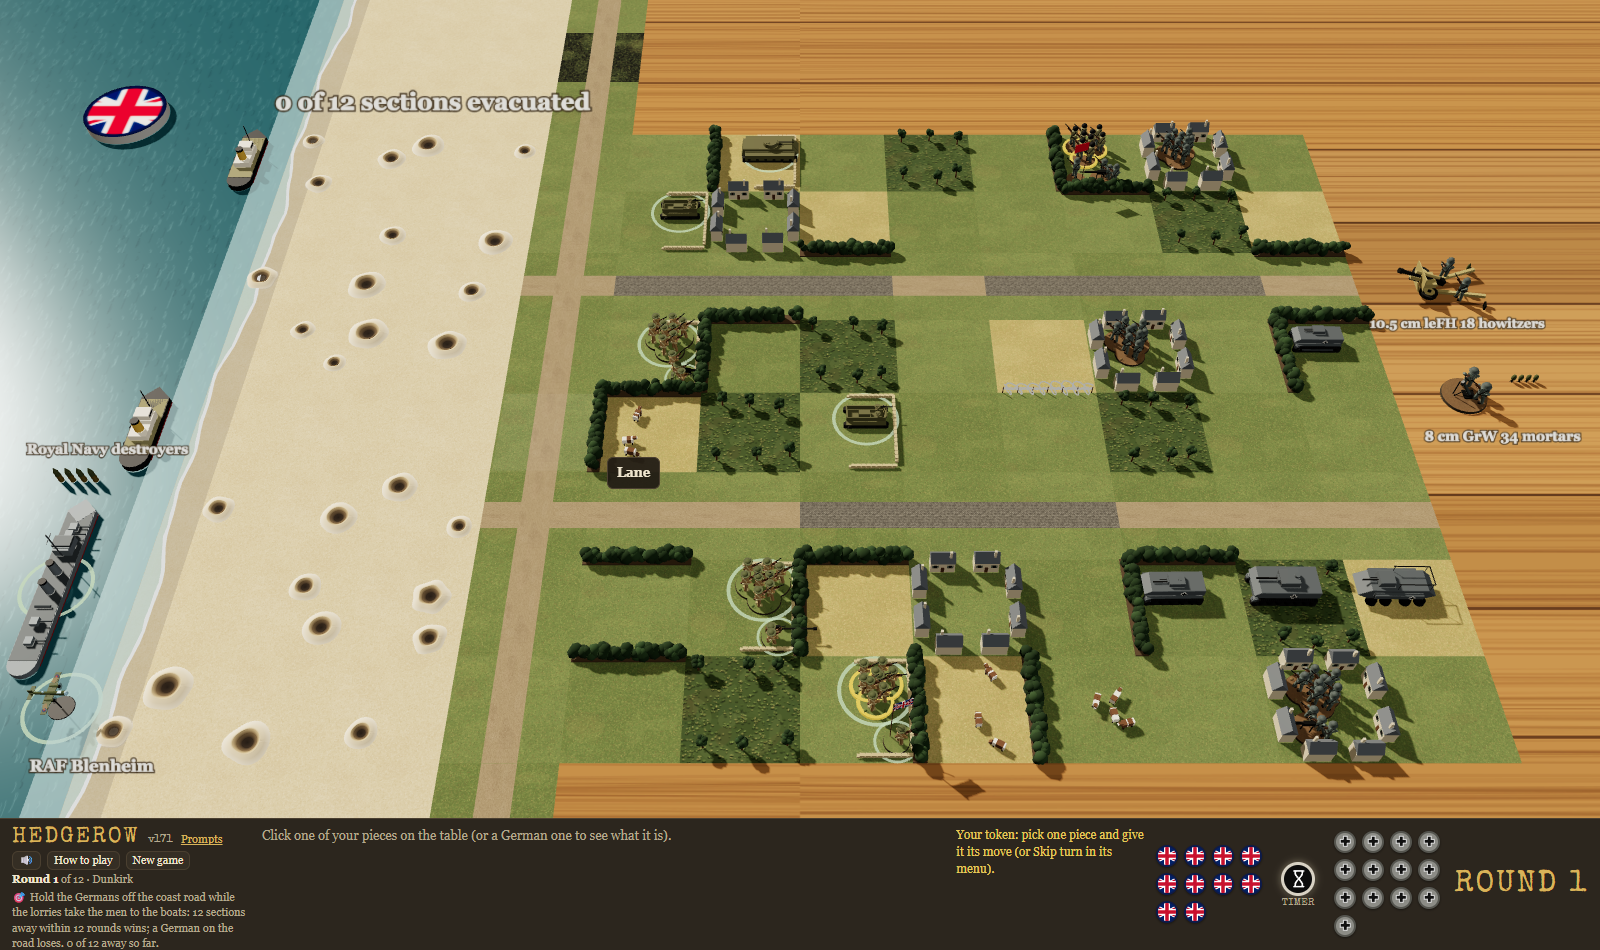
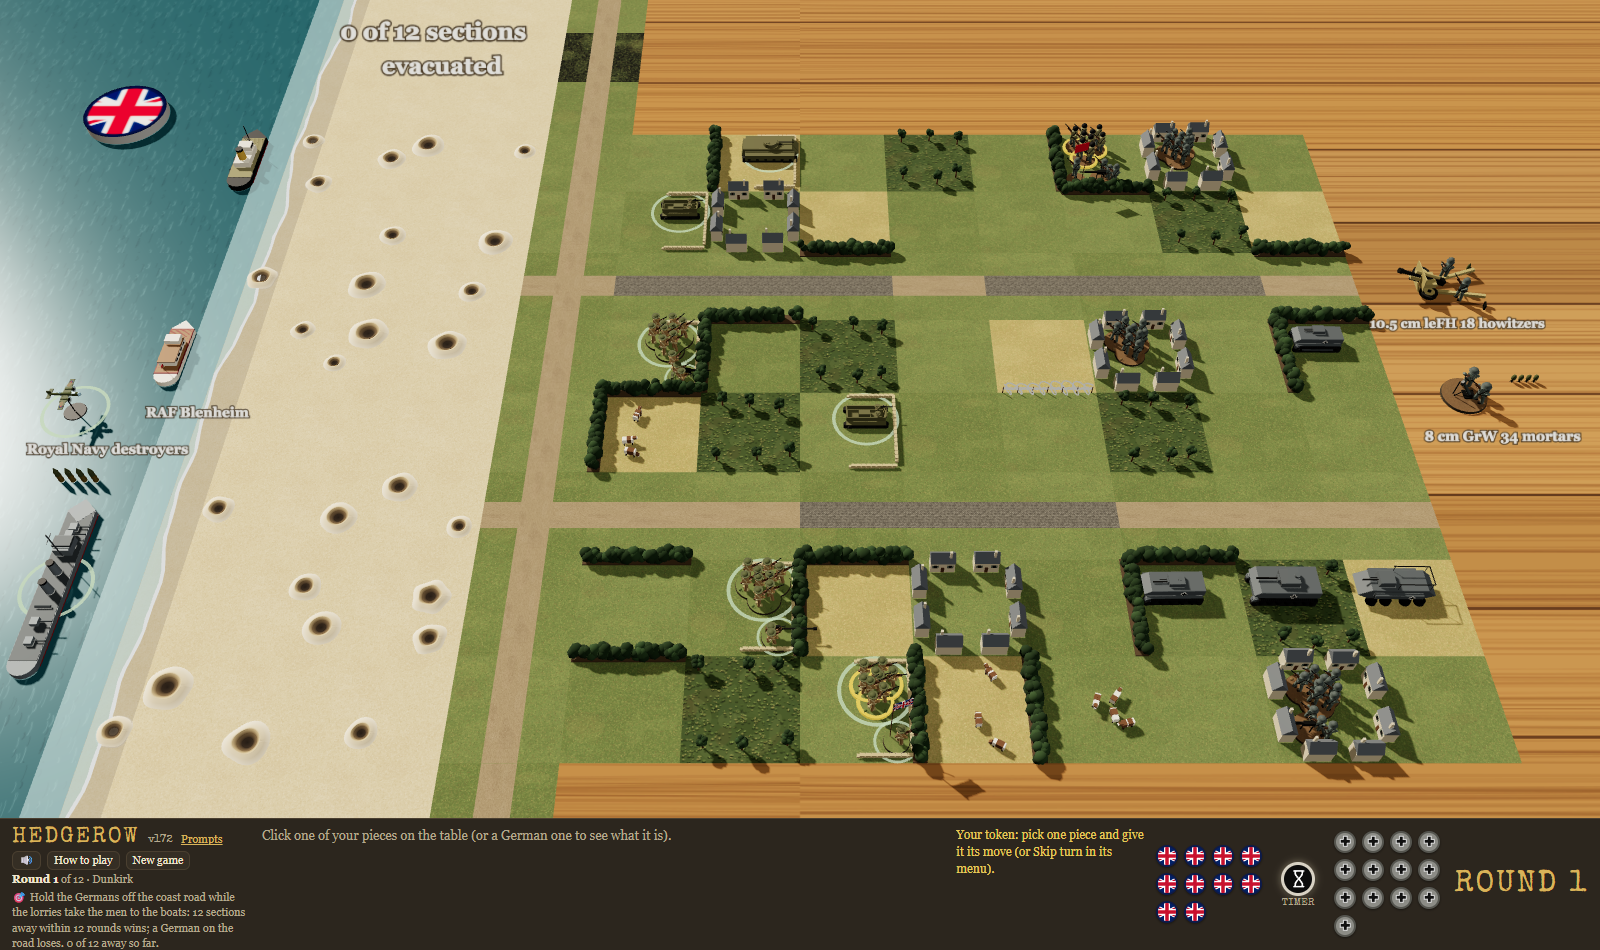
Hedgerow v173: Dunkirk's score on two lines higher up; the bomber above the destroyer; boats off the top half

diff --git a/index.html b/index.html
@@ -145,7 +145,7 @@
 <aside id="panel">
   <div class="brand">
   <div class="top">
-    <h1>HEDGEROW <span id="ver" style="font-size:11px;color:var(--muted);letter-spacing:0">v172</span> <a id="prompts-link" href="prompts.html" target="_blank" rel="noopener" title="How the game was made, prompt by prompt">Prompts</a></h1>
+    <h1>HEDGEROW <span id="ver" style="font-size:11px;color:var(--muted);letter-spacing:0">v173</span> <a id="prompts-link" href="prompts.html" target="_blank" rel="noopener" title="How the game was made, prompt by prompt">Prompts</a></h1>
     <div class="links"><button id="sound-btn" title="Sound on or off">🔊</button><button id="help-btn">How to play</button><button id="new-btn">New game</button></div>
   </div>
   <div id="clock"></div>
@@ -193,7 +193,7 @@
     <p>Tuesday 11 July 1944, Normandy. Your American rifle company must fight through the bocage, field by field, and take a village three fields in from the German end of the board (Saint-Jean or La Haye: it changes each game), then hold it for the whole of the next round, or destroy every German on the field. Taken at the end of a round, it must stay held after every move of the next: a rifle platoon or the captain of yours in it and no Germans. Lose it at any moment and it must be taken and held all over again. The game is played in rounds; there is no limit for now. The moment one side has no pieces left, the game is over (the round isn't finished); if one mission or bomb takes the last of both sides, it is a draw. You lose at the end of a round if you have no rifle platoon and no captain left, and nothing left that can hurt the German tanks. A German garrison holds the village; more Germans march up from the east.</p>
     <ul>
       <li>🪖 <b>Pieces</b>: your company: three rifle platoons (three sections of three men each, moving together), the captain, machine-gun and bazooka teams, a sniper, and two tanks: a Sherman 75mm and a Sherman 76mm, with the longer gun, better against tanks. 1st Platoon is elite, and so is the Germans' 1. Fallschirmjäger-Zug: an elite piece has a gold band round the edge of each of its bases, its men look the part (and a ★ after its name): 1st Platoon are Rangers in brown, with the orange diamond on their helmets; the Fallschirmjäger wear the paratrooper's camouflage smock and black helmet. The other Germans are in field grey. Elite troops need one less to hit, in shooting and hand to hand. Your bases are green, the Germans' brown. The Germans: Fallschirmjäger platoons, MG 42 and Panzerschreck teams, a PaK 40 gun with its crew of three (it turns to face whatever it fires at), a Panzer IV and a Panther in panzer grey (the Panther's armour needs one more to hit, by shot or shell; every tank's armour shows in its panel and on the red label), and their captain with a red flag, who rallies their shaken pieces. Both captains can be shot and shelled like anyone else (a small target): one wound and he's gone.</li>
-      <li>🗺 <b>The campaign</b>: the same start also asks which battle. They run in order from the Normandy beaches through the bocage and the farms to Paris, each with its date; play any of them, in any order. When a battle ends and you have won it, <b>Next battle</b> starts the next one in the campaign with the same commanders on each side (after Paris, back to the beach); lost or drawn, <b>Try again</b> plays the same battle again. With two humans or two robots, it goes on when the Americans win. Take Paris and the city celebrates. Each has its own ground, and most change the pieces, the guns or where the sides start: River crossing (bridges the only way over), Crossroads town, Open farmland (few hedges, barns and a duck pond), Paris (a new maze of cobbled streets each game), Train station (tracks everywhere, with engines, carriages, goods wagons, signal boxes, signals, water towers and coal heaps in new places each game; the tracks themselves have no effect) and Deep bocage (hedges nearly everywhere). A café, a barn, or anything on the rails takes two or three areas, along one side of its field or in the middle, and blocks the view as a tank does; so do the station's signal boxes, water towers and coal heaps, one area each; a signal takes an area too, but can be seen past (with one in the middle only smaller pieces can stop there; platoons and tanks go past); a fountain or a pond can't be stood on, but can be seen over. Bombers differ too: on some maps only one side has one, on one map neither. The choice says what each one changes. Two <b>bonus battles</b> sit at the top right of the choice, outside the campaign. <b>Dunkirk</b>, 31 May 1940: you are the British (or the Germans against them). Your men don't go to the boats: they hold the sandbagged strongpoints along the front (two more to hit the men in one, one more against shells). From round 2 a lorry a round comes down the coast road from the top, with 1 or 2 sections of men, and drives itself (up to 4 fields a round, no orders or token) to a little ship lying off the beach; the men run out of the back into the boat, and the boats sail at the end of the round. Two or three boats (tugs and cabin cruisers) come in each round, off the top five fields of the beach; the destroyer and the RAF's bomber lie at the bottom. 12 sections away within 12 rounds wins (a lorry shot up on the way brings fewer); a German on the coast road or the beach at the end of a round loses, and so does running out of lorries or rounds. The Germans can shoot the lorries: each hit loses a section. The Royal Navy's destroyer fires for the British in place of artillery, with 4 rounds; the British have no mortars, and one run of an RAF Blenheim. The boats come in bow first, pull up alongside the beach, and leave bow first. The count of sections away is written large on the beach above the board. On the Normandy beach the American guns are the battleship USS Texas, out at sea, with 3 rounds, and no mortars. On both, the beach runs on past the top and bottom of the board. <b>Stalingrad</b> is still to be decided (TBC).</li>
+      <li>🗺 <b>The campaign</b>: the same start also asks which battle. They run in order from the Normandy beaches through the bocage and the farms to Paris, each with its date; play any of them, in any order. When a battle ends and you have won it, <b>Next battle</b> starts the next one in the campaign with the same commanders on each side (after Paris, back to the beach); lost or drawn, <b>Try again</b> plays the same battle again. With two humans or two robots, it goes on when the Americans win. Take Paris and the city celebrates. Each has its own ground, and most change the pieces, the guns or where the sides start: River crossing (bridges the only way over), Crossroads town, Open farmland (few hedges, barns and a duck pond), Paris (a new maze of cobbled streets each game), Train station (tracks everywhere, with engines, carriages, goods wagons, signal boxes, signals, water towers and coal heaps in new places each game; the tracks themselves have no effect) and Deep bocage (hedges nearly everywhere). A café, a barn, or anything on the rails takes two or three areas, along one side of its field or in the middle, and blocks the view as a tank does; so do the station's signal boxes, water towers and coal heaps, one area each; a signal takes an area too, but can be seen past (with one in the middle only smaller pieces can stop there; platoons and tanks go past); a fountain or a pond can't be stood on, but can be seen over. Bombers differ too: on some maps only one side has one, on one map neither. The choice says what each one changes. Two <b>bonus battles</b> sit at the top right of the choice, outside the campaign. <b>Dunkirk</b>, 31 May 1940: you are the British (or the Germans against them). Your men don't go to the boats: they hold the sandbagged strongpoints along the front (two more to hit the men in one, one more against shells). From round 2 a lorry a round comes down the coast road from the top, with 1 or 2 sections of men, and drives itself (up to 4 fields a round, no orders or token) to a little ship lying off the beach; the men run out of the back into the boat, and the boats sail at the end of the round. Two or three boats (tugs and cabin cruisers) come in each round, off the top four fields of the beach; the destroyer lies at the bottom with the RAF's bomber above it. 12 sections away within 12 rounds wins (a lorry shot up on the way brings fewer); a German on the coast road or the beach at the end of a round loses, and so does running out of lorries or rounds. The Germans can shoot the lorries: each hit loses a section. The Royal Navy's destroyer fires for the British in place of artillery, with 4 rounds; the British have no mortars, and one run of an RAF Blenheim. The boats come in bow first, pull up alongside the beach, and leave bow first. The count of sections away is written large on the beach above the board. On the Normandy beach the American guns are the battleship USS Texas, out at sea, with 3 rounds, and no mortars. On both, the beach runs on past the top and bottom of the board. <b>Stalingrad</b> is still to be decided (TBC).</li>
       <li>🏖 <b>Beach landing</b>: the Americans start in landing craft in the sea and can only go forward. There is no goal to take: they win only by destroying every German, bunkers and all. <b>Bunkers</b> are a U of concrete with an MG team or a PaK 40 inside. They never move and fire only out of the slit in their thick front, to the west, across a 90° arc: 45° either side of straight ahead, measured from where the bunker stands to where the target stands in its field. <b>From in front they need 3 more to hit</b>, and shells and bombs too; <b>from either thin side, 1 more</b>; <b>from the open back (the 90° straight behind it), nothing extra</b>. A bunker never has cover from the sea wall, hedges, houses or trees, and the label on a shot at one says which face. Rifles, machine guns and mortars only shake a bunker; anti-tank weapons, artillery and bombs can knock it out, and a rifle platoon can storm it hand to hand from the side or back, never from the front. A dead bunker stays as a burnt-out shell, blocking the view. <b>Tank traps</b> stop tanks and give no cover. <b>Burnt-out landing craft</b> on the sand block the view; a piece right beside one (in the next area, in its field or the next) has +1 cover, as by a hedge, shown by a green bar along the wreck when you move there (not against shells or bombs). The sea wall is climbed like a hedge bank, or driven through.</li>
       <li>🔄 <b>Human or robot</b>: the game starts by asking who commands each side, and <b>New game</b> asks again. Two humans share the screen and take turns token by token: a piece under fire is asked Stand fast or Take cover by the other player. Two robots play it out while you watch, a draw after 30 rounds. <b>Playing the Germans</b>: As the Germans you win only by destroying every American piece on the table; their mortars, artillery and bomber off the table don't count. You lose if a rifle platoon or the captain of theirs takes the village and holds it for the whole of the next round, with no Germans left in it, or if every German is destroyed. The computer plays the Americans and attacks. Everything else in these rules works the same, the other way round: your pieces fight with German weapons and your mortars drop on one piece, not a whole field.</li>
       <li>📋 <b>The bag</b>: each round a token goes in a blind bag for every piece on the table: green with a gold star for yours, grey with a black cross for the Germans', and one black timer token (a white sand-glass): when the timer is drawn the round ends there and then, whoever has still to move (it is never the first token out). Tokens are drawn one at a time; on yours, pick one piece and give it its move (or Skip turn in its menu); on theirs, a German piece moves. A piece destroyed, or one that loses its move, takes a token out. When the bag is empty the next round starts. The tokens left are shown in the bar at the bottom (the timer between the two sides'); the one drawn flies onto the table above that side's artillery and stays there until its move is over. Your mortars, artillery and bomber each have a token too, while they have rounds or a run left (with none left, they come out of the bag): on one of your tokens, firing them or flying the bomber uses it. Any piece or gun can <b>Skip turn</b> (in its menu): it gives up its move this round and the token is used.</li>
@@ -229,16 +229,16 @@
 </div>
 
 <script src="https://cdnjs.cloudflare.com/ajax/libs/three.js/r128/three.min.js"></script>
-<script src="js/data.js?v=172"></script>
-<script src="js/sim.js?v=172"></script>
-<script src="js/sound.js?v=172"></script>
-<script src="js/models.js?v=172"></script>
-<script src="js/fire.js?v=172"></script>
-<script src="js/chute.js?v=172"></script>
-<script src="js/labels.js?v=172"></script>
-<script src="js/scenery.js?v=172"></script>
-<script src="js/board3d.js?v=172"></script>
-<script src="js/ui.js?v=172"></script>
-<script src="js/main.js?v=172"></script>
+<script src="js/data.js?v=173"></script>
+<script src="js/sim.js?v=173"></script>
+<script src="js/sound.js?v=173"></script>
+<script src="js/models.js?v=173"></script>
+<script src="js/fire.js?v=173"></script>
+<script src="js/chute.js?v=173"></script>
+<script src="js/labels.js?v=173"></script>
+<script src="js/scenery.js?v=173"></script>
+<script src="js/board3d.js?v=173"></script>
+<script src="js/ui.js?v=173"></script>
+<script src="js/main.js?v=173"></script>
 </body>
 </html>

diff --git a/js/board3d.js b/js/board3d.js
@@ -106,13 +106,14 @@ const Board = (() => {
   // these maps, and no headland, Steve 2026-11-12). The ship's name sits on the water off its bow, not on the ship, so it can
   // be read, and its shells stand in one line between the name and the bow, so the shots left can be counted (Steve)
   // nameX, nameZ: where its name goes; pileRow: the rounds in a single line, not rows of three.
-  // The warship and the bomber at the bottom of the sea, so the little ships have the top of the beach (Steve, 2026-11-12;
-  // Dunkirk keeps its boats off the rows behind them, noBoats in data.js)
+  // The warship at the bottom of the sea and the bomber above it, so the little ships have the top half of the beach
+  // (Steve, 2026-11-12; Dunkirk keeps its boats off the rows behind them, noBoats in data.js)
   const DUNKIRK_GUNS = {
     us: Object.assign({}, USUAL_GUNS.us, {
       // (in towards the shore: the bottom of the screen shows less of the sea)
       artillery: { x: -0.75, z: 6.3, pileX: -1.1, pileZ: 5.1, pileRow: true, nameX: -0.75, nameZ: 4.76 },
-      bomber: { x: -0.3, z: 7.5, nameX: 0.15, nameZ: 8.05 },
+      // (the bomber above the warship's name, its own name beside it towards the shore, Steve)
+      bomber: { x: -1.25, z: 4.25, nameX: 0.0, nameZ: 4.3 },
     }),
     de: USUAL_GUNS.de,
   };
@@ -332,22 +333,29 @@ const Board = (() => {
     return p < 1;
   }
 
-  // Dunkirk's score in big letters on the beach just above the board (Steve: the panel's was too small)
-  const EVAC_SIGN = { x: 1.55, z: -0.5, scale: 1.9, colour: '#f4ead0' };
-  let evacSign = null;               // { sprite, text }
+  // Dunkirk's score in big letters on the beach above the board (Steve: the panel's was too small), on two lines, half
+  // as far from the top of the screen as it was (Steve). gap: how far the second line is below the first
+  const EVAC_SIGN = { x: 1.55, z: -1.2, scale: 1.9, gap: 0.5, colour: '#f4ead0' };
+  let evacSign = null;               // { sign, text }
   function updateEvacSign(st) {
     if (!st.map.evacuate || !st.evac) return;
-    const text = `${st.evac.saved} of ${st.map.evacuate.need} sections evacuated`;
+    const lines = [`${st.evac.saved} of ${st.map.evacuate.need} sections`, 'evacuated'];
+    const text = lines.join(' ');
     // (the same words, and still on this table: nothing to do)
-    if (evacSign && evacSign.text === text && evacSign.sprite.parent === built) return;
-    if (evacSign && evacSign.sprite.parent) evacSign.sprite.parent.remove(evacSign.sprite);
-    const sprite = word(text, EVAC_SIGN.colour, true);
-    sprite.scale.multiplyScalar(EVAC_SIGN.scale);
-    sprite.position.set(EVAC_SIGN.x, 0.08, EVAC_SIGN.z);
-    // (drawn after the surf, so the water's edge never shows through the words)
-    sprite.renderOrder = 3;
-    built.add(sprite);
-    evacSign = { sprite, text };
+    if (evacSign && evacSign.text === text && evacSign.sign.parent === built) return;
+    if (evacSign && evacSign.sign.parent) evacSign.sign.parent.remove(evacSign.sign);
+    // One sprite a line, the second below the first
+    const sign = new T.Group();
+    lines.forEach((line, i) => {
+      const sprite = word(line, EVAC_SIGN.colour, true);
+      sprite.scale.multiplyScalar(EVAC_SIGN.scale);
+      sprite.position.set(EVAC_SIGN.x, 0.08 + (lines.length - 1 - i) * EVAC_SIGN.gap, EVAC_SIGN.z);
+      // (drawn after the surf, so the water's edge never shows through the words)
+      sprite.renderOrder = 3;
+      sign.add(sprite);
+    });
+    built.add(sign);
+    evacSign = { sign, text };
   }
 
   // Show as many rounds beside each gun as it has shots left

diff --git a/tools/test.js b/tools/test.js
@@ -4321,17 +4321,17 @@ check('one more American artillery round in Hedge country, Deep bocage, the Trai
   Sim.newGame(1);
 });
 
-check('no American or British mortars on either beach (Steve), and Dunkirk boats only off the top five rows, clear of the destroyer and the bomber', () => {
+check('no American or British mortars on either beach (Steve), and Dunkirk boats only off the top four rows, clear of the destroyer and the bomber', () => {
   for (const id of ['beach', 'dunkirk']) {
     const g = Sim.newGame(1, 'us', id);
     assert(g.ammo.us.mortars === 0, `${id}: ${g.ammo.us.mortars} mortar rounds`);
     // (the Germans keep theirs)
     assert(g.ammo.de.mortars > 0, `${id}: the Germans lost their mortars`);
   }
-  assert(MAPS.find(m => m.id === 'dunkirk').evacuate.noBoats.join() === '5,6,7', 'Dunkirk keeps the wrong rows clear of boats');
+  assert(MAPS.find(m => m.id === 'dunkirk').evacuate.noBoats.join() === '4,5,6,7', 'Dunkirk keeps the wrong rows clear of boats');
   for (let seed = 1; seed <= 30; seed++) {
     const g = Sim.newGame(seed, 'us', 'dunkirk');
-    assert(g.evac.boats.every(b => b.y <= 4), `seed ${seed}: a boat behind the destroyer`);
+    assert(g.evac.boats.every(b => b.y <= 3), `seed ${seed}: a boat behind the destroyer or the bomber`);
   }
   Sim.newGame(1);
 });
@@ -4359,7 +4359,7 @@ check('less than one die is always one die (Steve: everyone who shoots rolls); n
 
 check('Dunkirk boats are named by their type, a tug or a cabin cruiser, as the table draws them (Steve)', () => {
   const st = Sim.newGame(3, 'us', 'dunkirk');
-  const kinds = [0, 1, 2, 3, 4].map(y => Sim.boatKind(st, y));
+  const kinds = [0, 1, 2, 3].map(y => Sim.boatKind(st, y));
   assert(kinds.every(k => k === 'tug' || k === 'cabin cruiser') && new Set(kinds).size === 2, kinds.join());
   // (the same rule as Models.littleShip: odd is a tug)
   assert(Sim.boatKind(st, 0) === (Math.abs(st.seed) % 2 ? 'tug' : 'cabin cruiser'), 'not the boat on the table');

diff --git a/js/data.js b/js/data.js
@@ -257,9 +257,9 @@ const MAPS = [
     // came to about 12, and two robots win about 6 games in 10); rounds: to do it in; boats: how many come each round, from to; trucks: the lorries,
     // in at the top of the coast road (this column), from round first to last, how many a round, sections of men in each,
     // and how many fields each drives a round
-    // noBoats: rows of the water's edge where no boat comes: the bottom three, behind the destroyer and the bomber (Steve
-    // 2026-11-12: the little ships use the top of the beach)
-    evacuate: { need: 12, rounds: 12, boats: [2, 3], noBoats: [5, 6, 7], trucks: { road: 3, first: 2, last: 12, each: [1, 1], sections: [1, 2], moves: 4 } },
+    // noBoats: rows of the water's edge where no boat comes: the bottom half, behind the destroyer and the bomber (Steve
+    // 2026-11-12: the little ships use the top half of the beach)
+    evacuate: { need: 12, rounds: 12, boats: [2, 3], noBoats: [4, 5, 6, 7], trucks: { road: 3, first: 2, last: 12, each: [1, 1], sections: [1, 2], moves: 4 } },
     // The destroyers stand in for the British artillery (Steve); the RAF's bomber in 1940 a Bristol Blenheim (Steve asked
     // for a Lancaster: it only came in 1942), one run; no German bomber
     guns: { us: { artillery: 'Royal Navy destroyers', bomber: 'Blenheim' } },

diff --git a/PROMPTS.md b/PROMPTS.md
@@ -1761,6 +1761,12 @@ How the game was made: each prompt, what was built, and the assumptions made.
 - **Picture**: Dunkirk's card on New game is now a picture of its table, as the others are (tools/map-pictures.js can now make just the ones named); the Normandy beach's picture made again without its mortars and headland
 - Not done (no balance runs asked beyond the quick robot check above)
 
+## 304. The score on two lines, higher up; the bomber above the destroyer (v173)
+
+- Steve: half the distance of the "0 of 12" text from the top, and wrap it over 2 lines; keep the destroyer's position, put the bomber above it and label it
+- **The score**: "0 of 12 sections" over "evacuated", moved up the beach so it sits half as far from the top of the screen. Assumed: "from the top" means the top of the screen
+- **The bomber**: now above the destroyer's name (its name beside it, towards the shore); the destroyer stays at the bottom. Dunkirk's boats now only come in off the top four rows (the top half), clear of both. Robots (40 games): the British win 27, as before
+
 ## Sessions
 
 | # | Date | Length | What we did |
